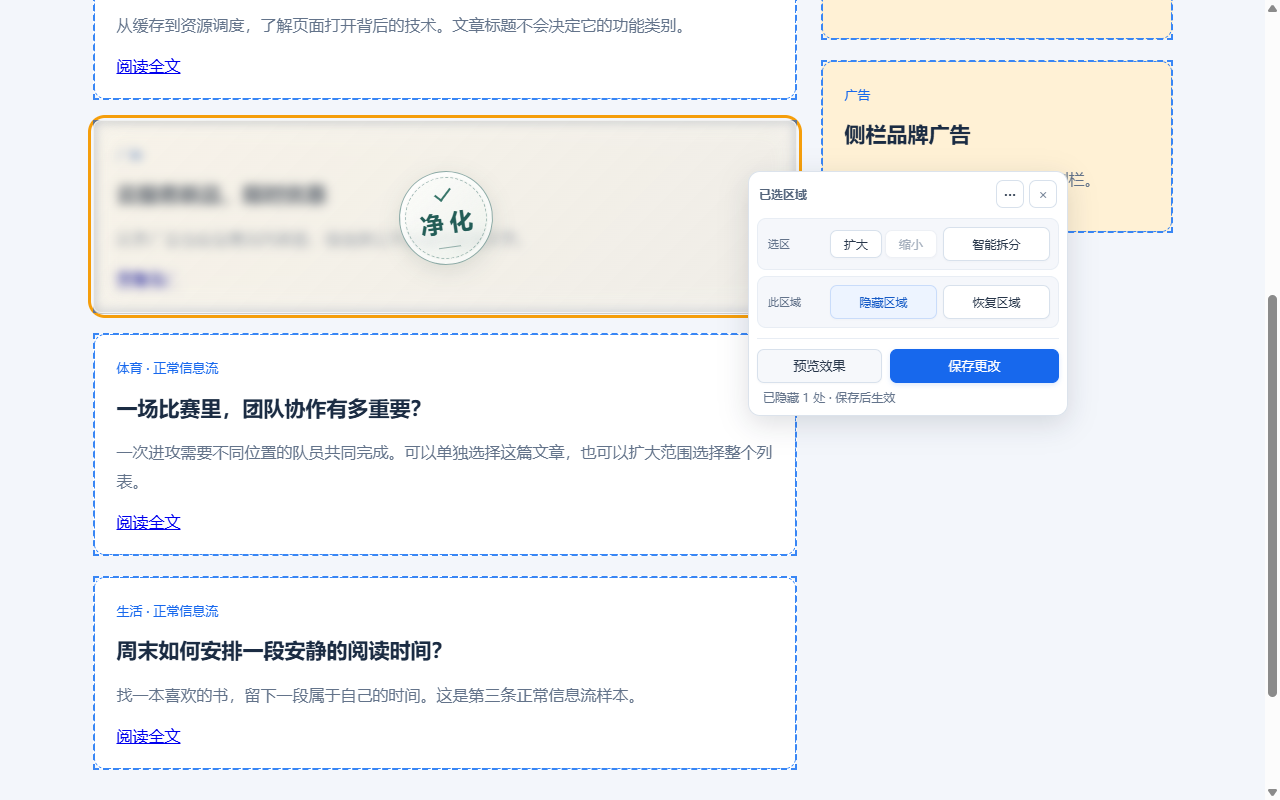
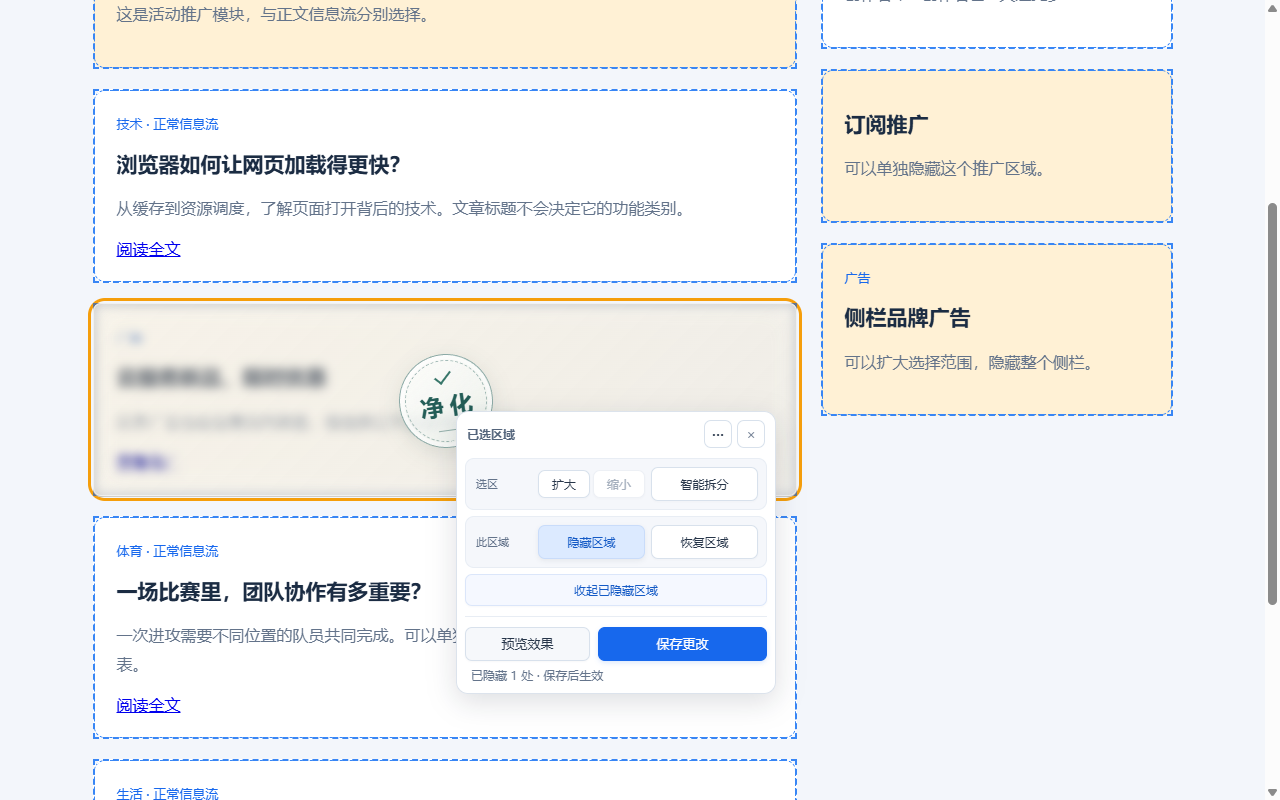
docs: 0.6.32 live on Edge store and 0.7.5 submitted for review

diff --git a/STORE_PUBLISH.md b/STORE_PUBLISH.md
@@ -8,7 +8,8 @@
 
 | 市场 | 状态 | 日期 | 说明 |
 | --- | --- | --- | --- |
-| Edge Add-ons | ✅ 已提交审核（In review） | 2026-09-21 | **v0.6.32**；v0.6.24 的首次提交于同日主动取消（商店从未发布过任何版本，取消无损失），由 v0.6.32 取代送审；微软口径 7 个工作日内反馈，结果邮件发 sk18101652104@outlook.com |
+| Edge Add-ons | ✅ 已发布（Live） | 2026-09-21 | **v0.6.32** 当天过审上架；商店链接 https://microsoftedge.microsoft.com/addons/detail/ijiaoneehjiebocilhnbmkoohlleaeen |
+| Edge Add-ons | 🕐 正在审阅（In review） | 2026-09-21 | **v0.7.5** 当天提审（包 `PagePure-0.7.5.zip`，38 文件，SHA-256 062729f6…dba0），微软口径 7 个工作日反馈 |
 | Chrome Web Store | ⏳ 未计划 | — | 全站 host_permissions + 广告屏蔽类功能在 Chrome 审核更严，暂不提交 |
 
 **Edge 更新流程经验（2026-09-21 实测）**：扩展处于“正在审阅”时无法发布更新（会提示“你的扩展正在审核中”）。若旧提交尚未发布过，可走「扩展概述 → 取消提交」（取消需 5–10 分钟生效），随后草稿上会出现「发布」按钮，补填认证说明后即可送审。
@@ -27,6 +28,16 @@
 - 审核通过后待办：把商店链接回填本文档台账和 README.md
 
 **发布经验来源**：`E:\AII-Jev\0919\STORE_PUBLISH.md`（Jev 邮件助手已于 2026-09-20 用同一账号成功提审）。
+
+## 0.7.5 商店更新（2026-09-21 提审）
+
+0.6.32 当天过审后直接走扩展概述「更新」流程提审 0.7.5，无需取消旧审。提交内容：
+
+- 程序包：`PagePure-0.7.5.zip`（38 文件、根目录即 manifest、184832 字节，SHA-256 `062729f6…dba0`；权限与 0.6.32 相同）
+- 商店一览：包内 12 种 `_locales` 被自动识别后**只保留 3 套一览**（英语 / 中文(台湾) / 中文(中国)），其余 9 种语言已移除（待母语者抽查翻译后再加）；描述在 0.6.32 英文文案基础上补充悬浮印章入口、跟随浏览器语言（12 种）、自定义 AI 需求三条；徽标用「为所有语言复制此徽标」同步；两张截图按 0.7.5 界面重新生成（1280×800，demo.html 实拍：选区遮罩+净化印章+工具条 / 保存后广告消失）
+- 认证说明：沿用 0.6.32 文案并追加 0.7.5 变化说明（本地化、悬浮印章、规则优先 AI 辅助、无新增权限）
+- **重要经验**：批量改一览（删 9 语言 + 传图）后 Partner Center 可能长时间卡在「Store 一览 未完成 / instancevalid=false / 发布置灰」，即使所有一览均已完成且无校验错误；此时对任一语言一览做一次任意修改并「保存草稿」（本次是加了一个搜索词）即可触发服务端重新校验，几分钟内翻成 ready；期间出现的「会话已过期」弹窗可能是误报，提交实际生效，以扩展概述状态为准
+- 提审结果邮件发 sk18101652104@outlook.com；过审后 0.6.32 → 0.7.5 自动替换上架
 
 ## 0.7.1 本地更新（未提交商店）
 

diff --git a/MILESTONE.md b/MILESTONE.md
@@ -2,7 +2,7 @@
 
 ## 当前版本 0.7.5 搜索后悬浮球恢复
 
-修复页面局部刷新清空 body 内容或替换 body 后悬浮球不再出现的问题：自动重新挂载同一个入口，保留拖动位置，关闭旧页面设置面板。只观察 body 和根节点的直接子节点变化。184 项测试通过，百度搜索后悬浮球恢复已由用户测试通过。本版为本地开发版本，尚未发布。
+修复页面局部刷新清空 body 内容或替换 body 后悬浮球不再出现的问题：自动重新挂载同一个入口，保留拖动位置，关闭旧页面设置面板。只观察 body 和根节点的直接子节点变化。184 项测试通过，百度搜索后悬浮球恢复已由用户测试通过。2026-09-21 以 `PagePure-0.7.5.zip` 提交 Edge 商店审核（0.6.32 同日已过审上架）。
 
 ## 0.7.4 自定义 AI 需求执行修复
 

diff --git a/docs/VERSION_HISTORY.md b/docs/VERSION_HISTORY.md
@@ -4,7 +4,7 @@
 
 ## 0.7.5 搜索后悬浮球恢复
 
-修复页面局部刷新清空 body 内容或替换 body 后悬浮球不再出现的问题：自动重新挂载同一个入口，保留拖动位置，关闭旧页面设置面板。只观察 body 和根节点的直接子节点变化。184 项测试通过，百度搜索后悬浮球恢复已由用户测试通过。本版为本地开发版本，尚未发布。
+修复页面局部刷新清空 body 内容或替换 body 后悬浮球不再出现的问题：自动重新挂载同一个入口，保留拖动位置，关闭旧页面设置面板。只观察 body 和根节点的直接子节点变化。184 项测试通过，百度搜索后悬浮球恢复已由用户测试通过。2026-09-21 以 `PagePure-0.7.5.zip` 提交 Edge 商店审核（0.6.32 同日已过审上架）。
 
 ## 0.7.4 自定义 AI 需求执行修复
 

diff --git a/README.md b/README.md
@@ -4,7 +4,7 @@
 
 ## 下载安装
 
-适用于 Chrome、Edge 和星愿浏览器。已发布下载版本：**0.6.32**；当前本地开发版本：**0.7.5**（尚未发布）。
+适用于 Chrome、Edge 和星愿浏览器。已发布下载版本：**0.6.32**；当前本地开发版本：**0.7.5**（已提交 Edge 商店审核，过审后可[从 Edge 商店安装](https://microsoftedge.microsoft.com/addons/detail/ijiaoneehjiebocilhnbmkoohlleaeen)）。
 
 1. **[点击下载安装包](https://github.com/mhgd3250905/PagePure/releases/download/v0.6.32/PagePure-0.6.32.zip)**，解压到一个固定文件夹。
 2. 打开浏览器的“扩展管理”页面：Chrome 在地址栏输入 `chrome://extensions`，Edge 输入 `edge://extensions`；星愿从菜单进入扩展管理。
